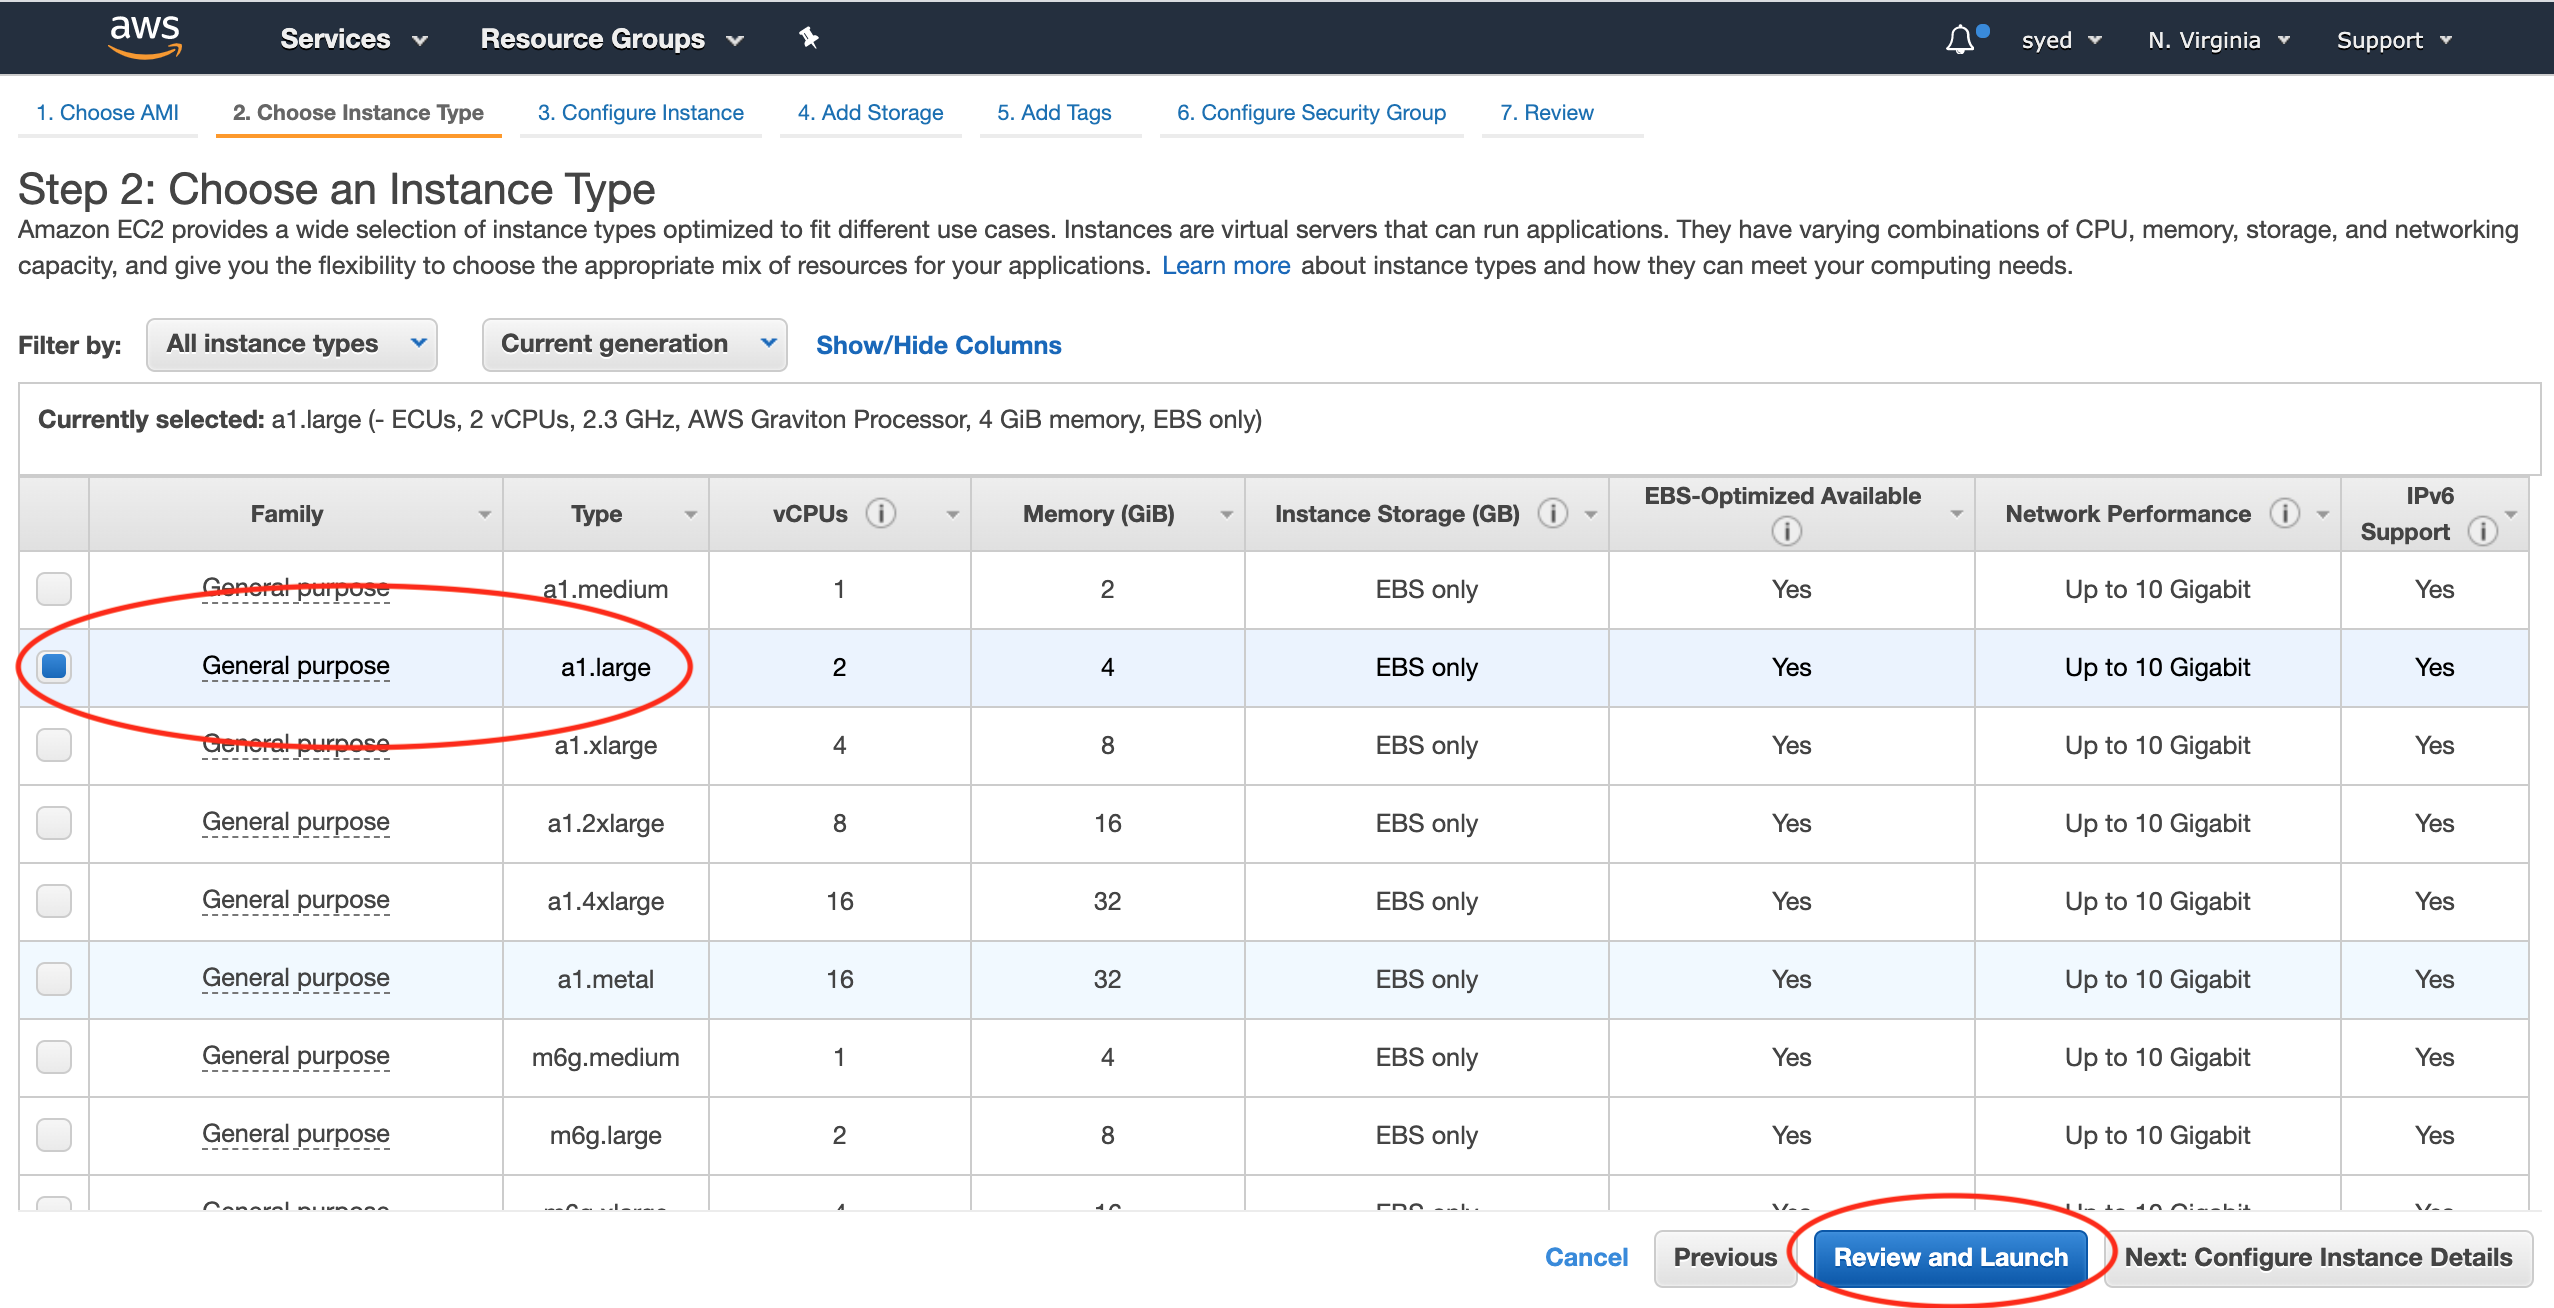
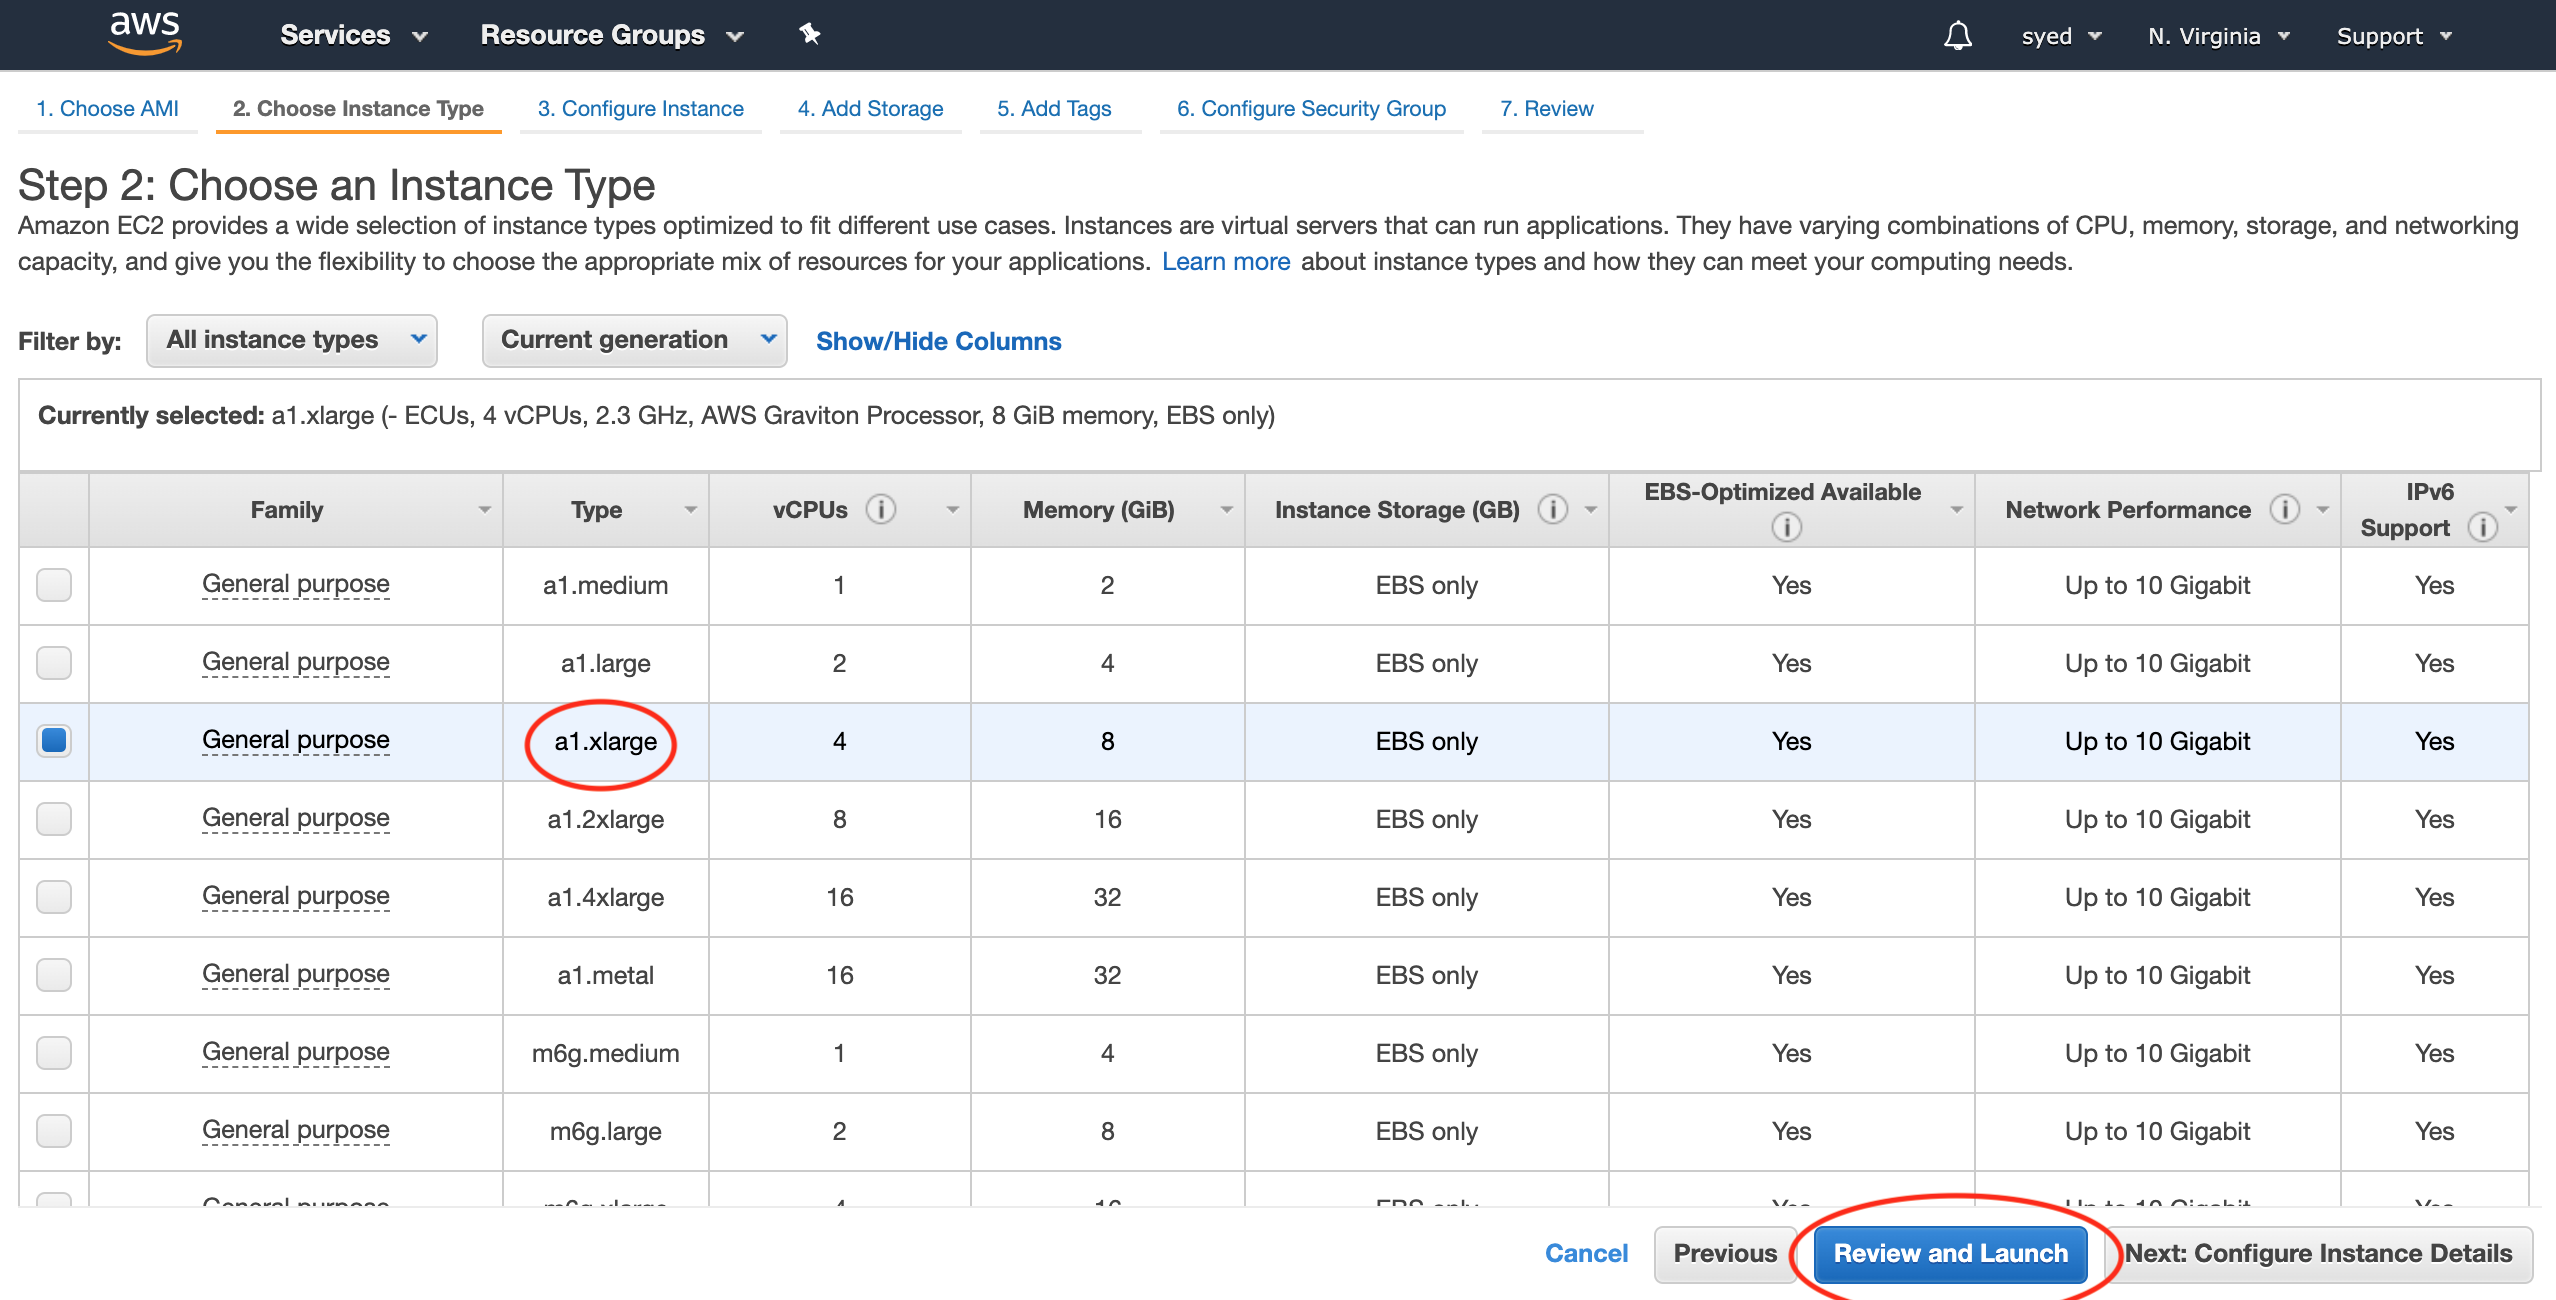
Use a1.xlarge instance instead to account for 4 cores in HW3

diff --git a/ese532_handouts/hw1/aws_tutorial.md b/ese532_handouts/hw1/aws_tutorial.md
@@ -39,14 +39,14 @@ that we gave you, type the captcha and click on ***Redeem***
 
 ## Usage and Costs
 We will be using two types of instances:
-- For homework 1-4 we will use an `a1.large` with ARM cores.
-It costs `$0.051/hr`.
+- For homework 1-4 we will use an `a1.xlarge` with ARM cores.
+It costs `$0.102/hr`.
 - For homework 5-7 we will use an `f1.2xlarge` with Xilinx FPGAs.
 It costs `$1.65/hr`.
 
 Students from the past offerings of this class reported that they took about
 9-16 hours on average to complete an assignment. Given that, we expect a total
-usage of $\$$$0.051$ $\times$ $16$ $\times$ $4$ $+$ $\$$$1.65$ $\times$ $16$ $\times$ $3$ $\approx$ $\$$$83$ per student for doing all the assignments
+usage of $\$$$0.102$ $\times$ $16$ $\times$ $4$ $+$ $\$$$1.65$ $\times$ $16$ $\times$ $3$ $\approx$ $\$$$86$ per student for doing all the assignments
 on Amazon AWS. We are giving you $\$$$150$ in credit---so there is some leeway.
 For the project, you will have the option to use SEAS Biglab or use up the rest of
 the AWS credits or build locally (if you manage to have a local installation of
@@ -62,7 +62,7 @@ is checked.
 ```{image} images/launch_a1_2.png
 ```
 ---
-Select ***a1.large*** instance type and click on ***Review and Launch***
+Select ***a1.xlarge*** instance type and click on ***Review and Launch***
 ```{image} images/launch_a1_3.png
 ```
 ---
